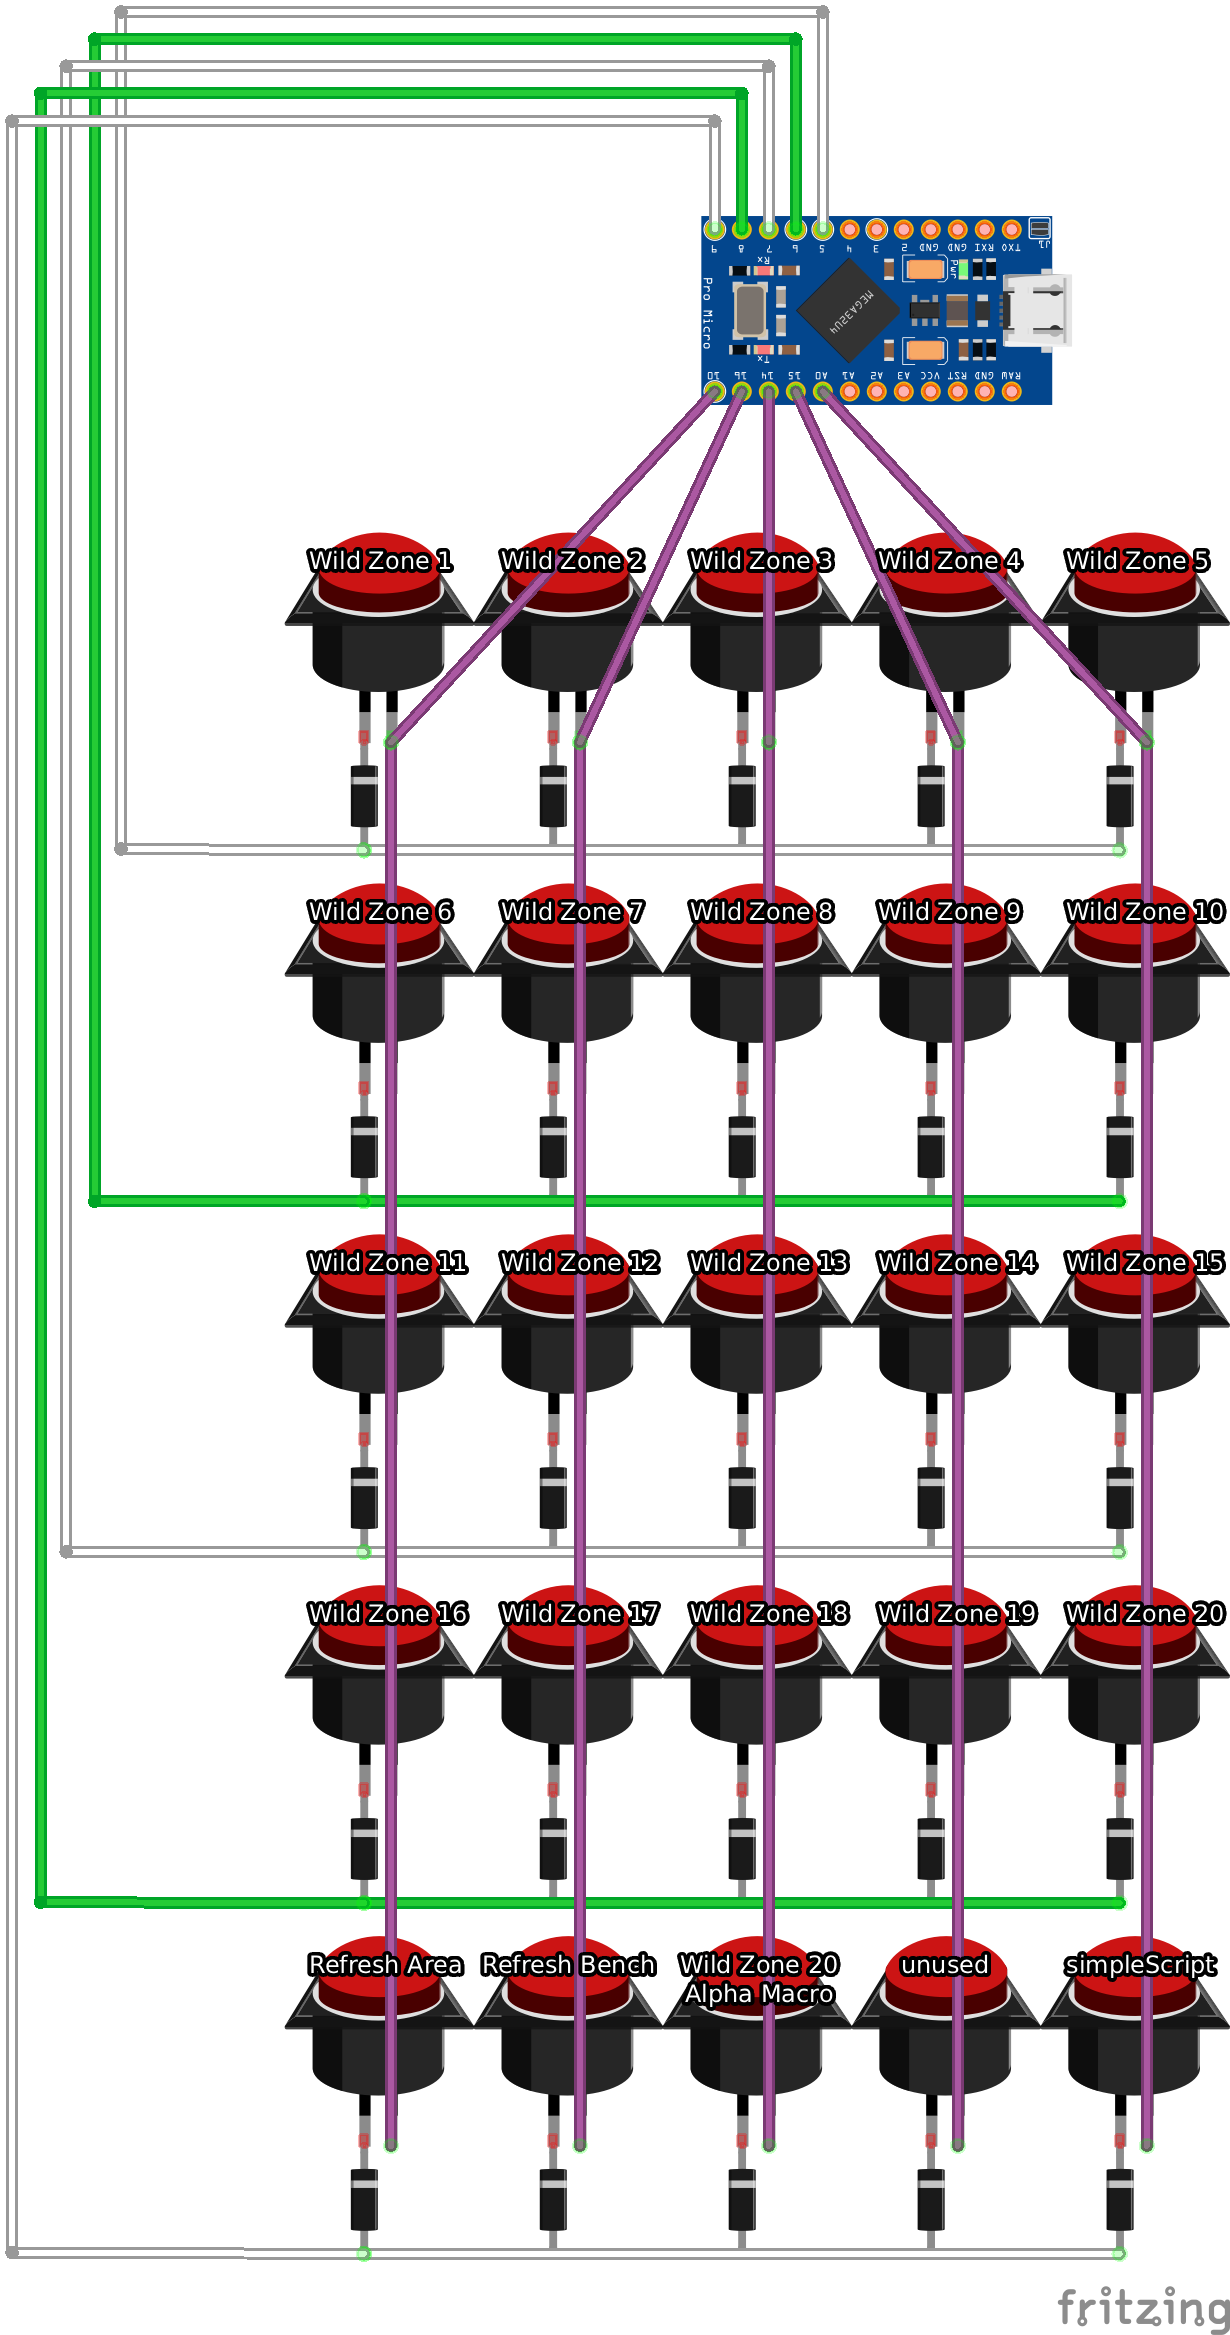
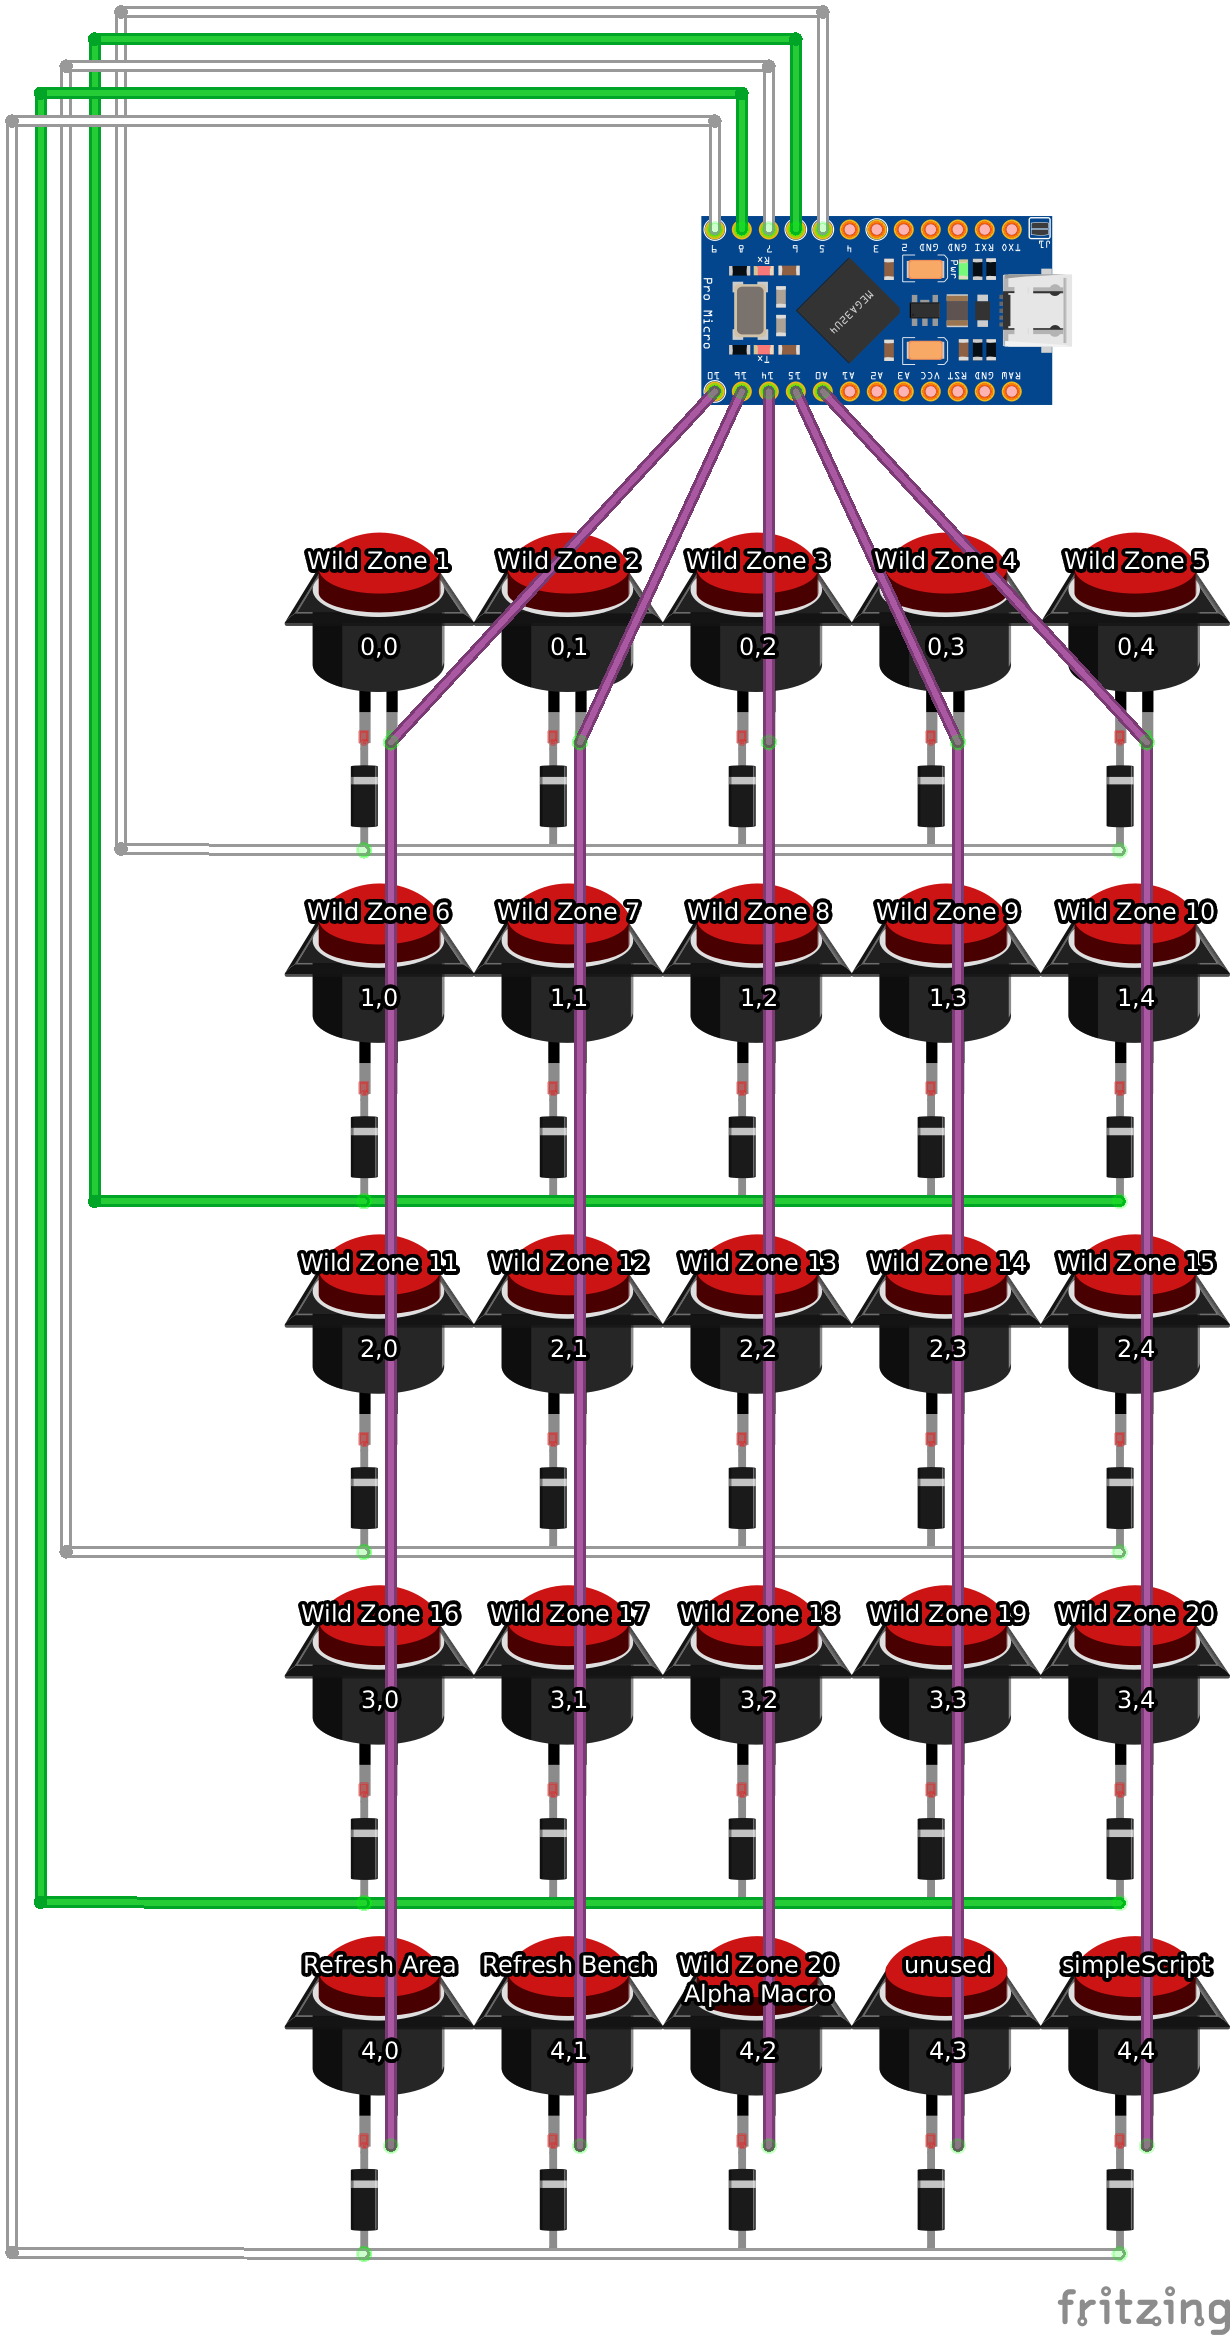
update diagram again and update readme

diff --git a/README.md b/README.md
@@ -35,10 +35,36 @@ You can use different pins or a different board, but you will have to adjust the
 3. Plug in Arduino.
 4. If using button matrix, push desired button.
 
-**Note: You may need to unplug/replug the Arduino in to select a new area.**
+**Note:** You may need to unplug/replug the Arduino in to select a new area.
+
+### Refresh Area
+1. Fly to any Fly Zone.
+2. Unplug/disconnect all other controllers/attach Joy-Cons to console.
+3. Plug in Arduino.
+4. If using button matrix, push appropriate button (4,0).
 
 ### Bench
-The best way to refresh a bench is to use it once before plugging in the Arduino/pressing the Refresh Bench button. This will position you perfectly for the bench refresh script.
+1. Go to any bench.
+2. Unplug/disconnect all other controllers/attach Joy-Cons to console.
+3. Plug in Arduino.
+4. If using button matrix, push appropriate button (4,1).
+
+### Wild Zone 20 Alpha Macro
+1. Ensure that the game is not about to enter a new day/night cycle.
+2. Unplug/disconnect all other controllers/attach Joy-Cons to console.
+3. Plug in Arduino.
+4. If using button matrix, push appropriate button (4,3).
+
+**Note:** This macro will:
+1. Fly to Centrico Pokémon Center.
+2. Go to a bench to reset day/night cycle.
+3. Fly to Zone 20.
+4. Go into Zone 20, far enough to spawn the Alphas in the center.
+5. Leave Zone 20.
+6. Repeat Steps 3-5 30 times.
+7. Fly back to Centrico.
+8. Reset day/night cycle.
+9. Repeat steps 3-5 30 times again.
 
 ## Scripting Instructions
 
